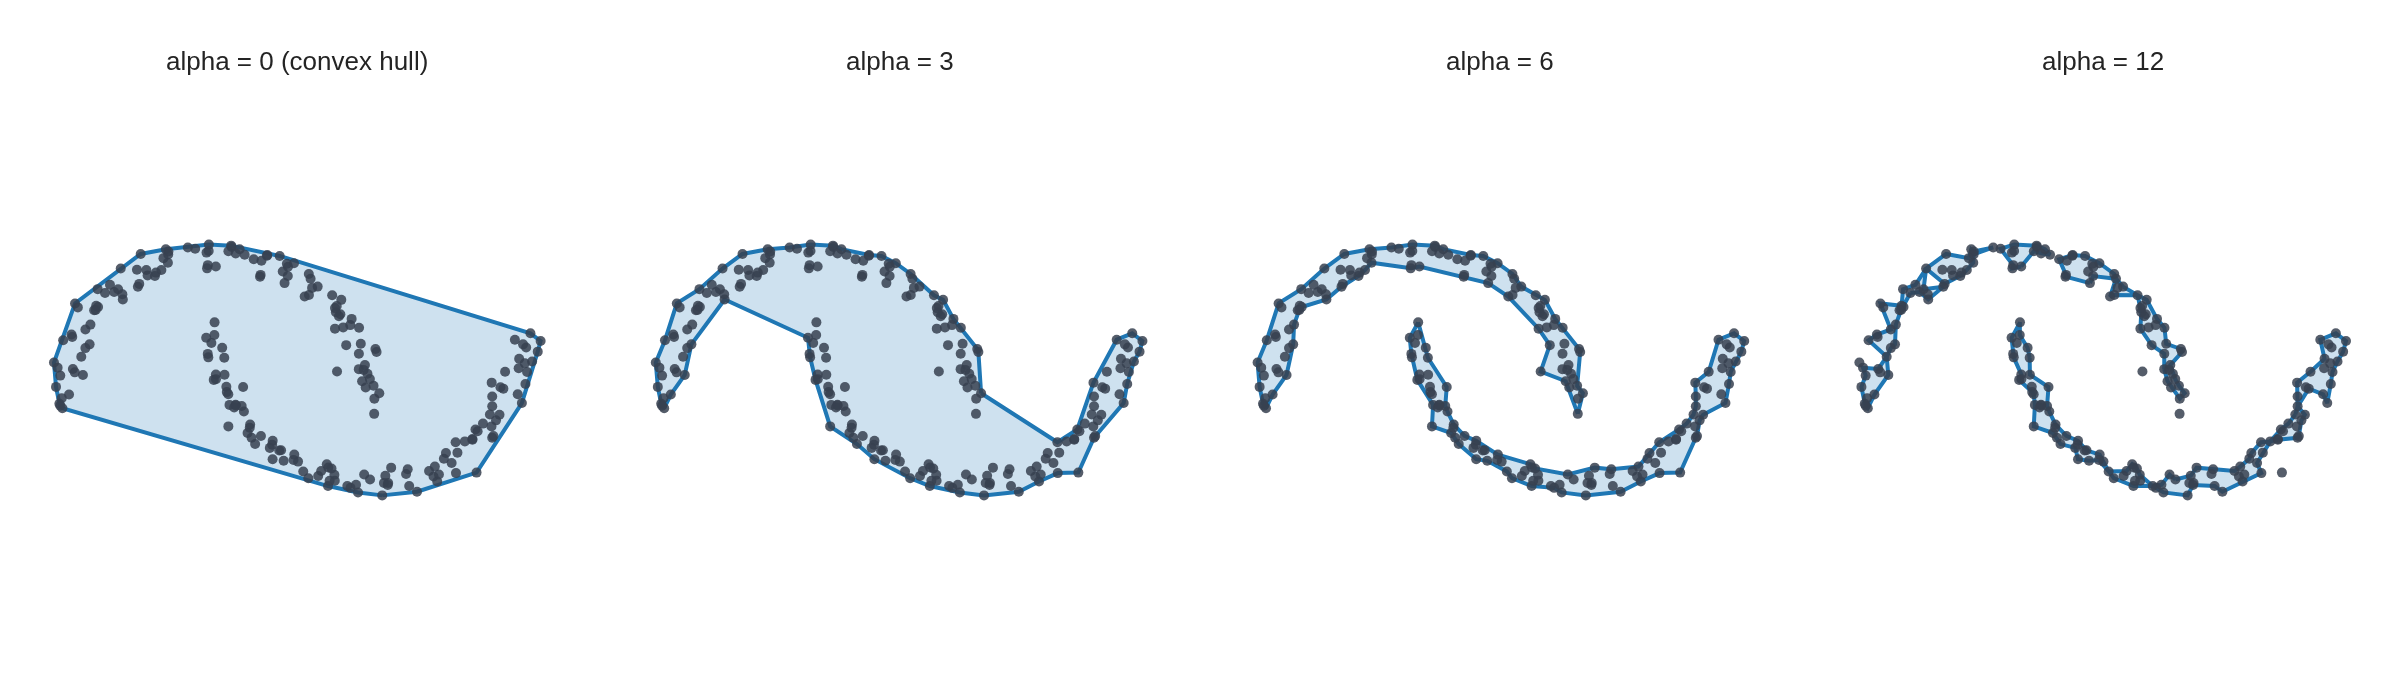
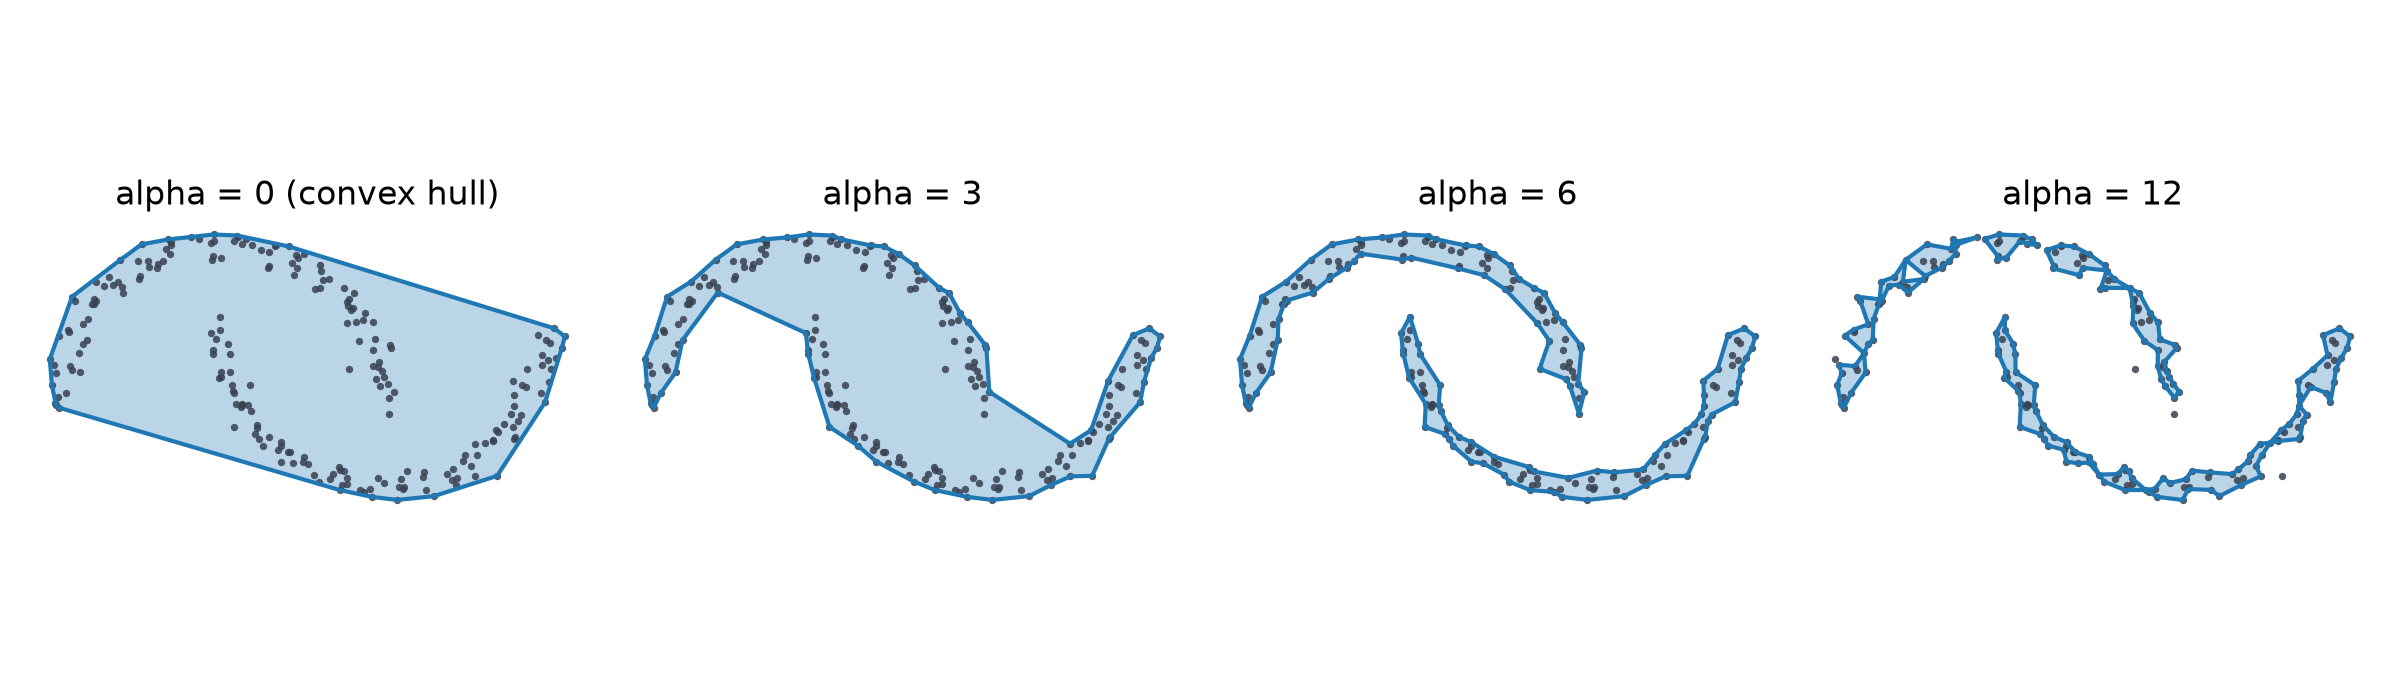
docs: render 2-D gallery images with matplotlib
Move the 2-D docs images (alpha sweep + single examples) off Plotly/kaleido onto
matplotlib so the whole gallery — 2-D and 3-D — shares one renderer and a
consistent look. Adds a small matplotlib renderer for shapely geometries.

diff --git a/assets/generate_images.py b/assets/generate_images.py
@@ -4,7 +4,9 @@ Usage::
 
     uv run --group dashboard python assets/generate_images.py
 
-Writes PNGs into ``assets/img/`` (override with ``--out``).
+Writes PNGs into ``assets/img/`` (override with ``--out``).  Everything is
+rendered with matplotlib so the 2-D and 3-D panels share a consistent look (and
+3-D meshes export headless, which Plotly's WebGL cannot).
 """
 from __future__ import annotations
 
@@ -12,25 +14,25 @@ import argparse
 import sys
 from pathlib import Path
 
-# Reuse the dashboard's sampling + Plotly helpers (single source of truth), and
+import matplotlib
+matplotlib.use("Agg")  # headless rendering
+import matplotlib.pyplot as plt  # noqa: E402
+import numpy as np  # noqa: E402
+from matplotlib.patches import PathPatch  # noqa: E402
+from matplotlib.path import Path as MplPath  # noqa: E402
+from mpl_toolkits.mplot3d.art3d import Poly3DCollection  # noqa: E402
+
+# Reuse the dashboard's point sampler and palette (single source of truth), and
 # make ``ashp`` importable from ``src`` even if it isn't installed.
 _ROOT = Path(__file__).resolve().parents[1]
 for _p in (_ROOT / "apps" / "dashboard", _ROOT / "src"):
     if str(_p) not in sys.path:
         sys.path.insert(0, str(_p))
 
-import matplotlib  # noqa: E402
-matplotlib.use("Agg")  # headless, software 3-D rendering (no WebGL needed)
-import matplotlib.pyplot as plt  # noqa: E402
-import numpy as np  # noqa: E402
-from mpl_toolkits.mplot3d.art3d import Poly3DCollection  # noqa: E402
-from plotly.subplots import make_subplots  # noqa: E402
-
 from ashp import alphashape  # noqa: E402
-from plotting import (POINT_COLOR, SHAPE_LINE, geom_traces,  # noqa: E402
-                      make_figure, point_trace, sample_points, style_axes)
+from plotting import POINT_COLOR, SHAPE_LINE, sample_points  # noqa: E402
 
-SCALE = 2  # render at 2x for crisp images
+DPI = 200
 
 
 def _rgb(css: str):
@@ -39,41 +41,83 @@ def _rgb(css: str):
     return (r / 255, g / 255, b / 255)
 
 
+FACE = _rgb(SHAPE_LINE)
+LINE = _rgb(SHAPE_LINE)
+POINT = _rgb(POINT_COLOR)
+
+
+# --------------------------------------------------------------------------- #
+# 2-D rendering
+# --------------------------------------------------------------------------- #
+def _iter_polygons(geom):
+    gt = geom.geom_type
+    if gt == "Polygon":
+        yield geom
+    elif gt in ("MultiPolygon", "GeometryCollection"):
+        for sub in geom.geoms:
+            yield from _iter_polygons(sub)
+
+
+def _polygon_path(poly) -> MplPath:
+    """Compound path for a polygon's exterior and holes (even-odd fill)."""
+    verts, codes = [], []
+    for ring in (poly.exterior, *poly.interiors):
+        coords = np.asarray(ring.coords)
+        n = len(coords)
+        verts.append(coords)
+        codes.append([MplPath.MOVETO] + [MplPath.LINETO] * (n - 2)
+                     + [MplPath.CLOSEPOLY])
+    return MplPath(np.concatenate(verts), np.concatenate(codes))
+
+
+def _draw_2d(ax, points: np.ndarray, geom) -> None:
+    for poly in _iter_polygons(geom):
+        ax.add_patch(PathPatch(_polygon_path(poly), facecolor=FACE,
+                               edgecolor="none", alpha=0.3))
+        ax.plot(*poly.exterior.xy, color=LINE, linewidth=1.5)
+        for ring in poly.interiors:
+            ax.plot(*ring.xy, color=LINE, linewidth=1.5)
+    if geom.geom_type == "LineString":
+        ax.plot(*geom.xy, color=LINE, linewidth=1.5)
+    elif geom.geom_type == "Point":
+        ax.plot([geom.x], [geom.y], marker="o", color=LINE, markersize=5)
+
+    ax.scatter(points[:, 0], points[:, 1], s=7, color=POINT, alpha=0.85,
+               linewidths=0)
+    ax.set_aspect("equal")
+    ax.set_axis_off()
+
+
 def alpha_sweep(out: Path) -> None:
     """A 1x4 panel showing the same cloud at increasing alpha."""
     points = sample_points("two moons", 220, seed=1)
-    alphas = [0.0, 3.0, 6.0, 12.0]
-    titles = ["alpha = 0 (convex hull)", "alpha = 3", "alpha = 6", "alpha = 12"]
+    specs = [(0.0, "alpha = 0 (convex hull)"), (3.0, "alpha = 3"),
+             (6.0, "alpha = 6"), (12.0, "alpha = 12")]
 
-    fig = make_subplots(rows=1, cols=4, subplot_titles=titles,
-                        horizontal_spacing=0.02)
-    for i, alpha in enumerate(alphas, start=1):
-        geom = alphashape(points, alpha)
-        for trace in geom_traces(geom):
-            fig.add_trace(trace, row=1, col=i)
-        fig.add_trace(point_trace(points), row=1, col=i)
-        style_axes(fig, row=1, col=i, xref="x" if i == 1 else f"x{i}")
-
-    fig.update_layout(template="simple_white", showlegend=False,
-                      margin=dict(l=10, r=10, t=40, b=10))
-    fig.update_annotations(font_size=13)
-    fig.write_image(str(out / "alpha_sweep.png"), width=1200, height=340,
-                    scale=SCALE)
+    fig, axes = plt.subplots(1, 4, figsize=(12, 3.4))
+    for ax, (alpha, title) in zip(axes, specs):
+        _draw_2d(ax, points, alphashape(points, alpha))
+        ax.set_title(title, fontsize=12)
+    fig.subplots_adjust(left=0.01, right=0.99, top=0.9, bottom=0.02, wspace=0.05)
+    fig.savefig(out / "alpha_sweep.png", dpi=DPI)
+    plt.close(fig)
 
 
 def single(out: Path, dataset: str, alpha: float, name: str) -> None:
     points = sample_points(dataset, 260, seed=2)
-    geom = alphashape(points, alpha)
-    fig = make_figure(points, geom)
-    fig.update_layout(width=520, height=520)
-    fig.write_image(str(out / name), width=520, height=520, scale=SCALE)
+    fig, ax = plt.subplots(figsize=(5, 5))
+    _draw_2d(ax, points, alphashape(points, alpha))
+    fig.subplots_adjust(left=0.01, right=0.99, top=0.99, bottom=0.01)
+    fig.savefig(out / name, dpi=DPI)
+    plt.close(fig)
 
 
+# --------------------------------------------------------------------------- #
+# 3-D rendering
+# --------------------------------------------------------------------------- #
 def gallery_3d(out: Path) -> None:
-    """A 1x3 panel of 3-D alpha-shape surface meshes (rendered with matplotlib,
-    since Plotly's WebGL meshes cannot be exported headless)."""
+    """A 1x3 panel of 3-D alpha-shape surface meshes."""
     datasets = [("ball (3D)", 6.0), ("torus (3D)", 6.0), ("blobs (3D)", 7.0)]
-    face_rgb, point_rgb = _rgb(SHAPE_LINE), _rgb(POINT_COLOR)
 
     fig = plt.figure(figsize=(12, 4.3))
     for i, (dataset, alpha) in enumerate(datasets, start=1):
@@ -83,11 +127,10 @@ def gallery_3d(out: Path) -> None:
         f = np.asarray(mesh.faces)
 
         ax = fig.add_subplot(1, 3, i, projection="3d")
-        tris = Poly3DCollection(v[f], alpha=0.45, facecolor=face_rgb,
-                                edgecolor=face_rgb, linewidths=0.1)
-        ax.add_collection3d(tris)
+        ax.add_collection3d(Poly3DCollection(
+            v[f], alpha=0.45, facecolor=FACE, edgecolor=FACE, linewidths=0.1))
         ax.scatter(points[:, 0], points[:, 1], points[:, 2],
-                   s=2, color=point_rgb, alpha=0.35, depthshade=True)
+                   s=2, color=POINT, alpha=0.35, depthshade=True)
         ax.set_title(dataset.replace(" (3D)", ""), fontsize=13)
         ax.set_box_aspect(np.ptp(v, axis=0))
         ax.view_init(elev=22, azim=45)